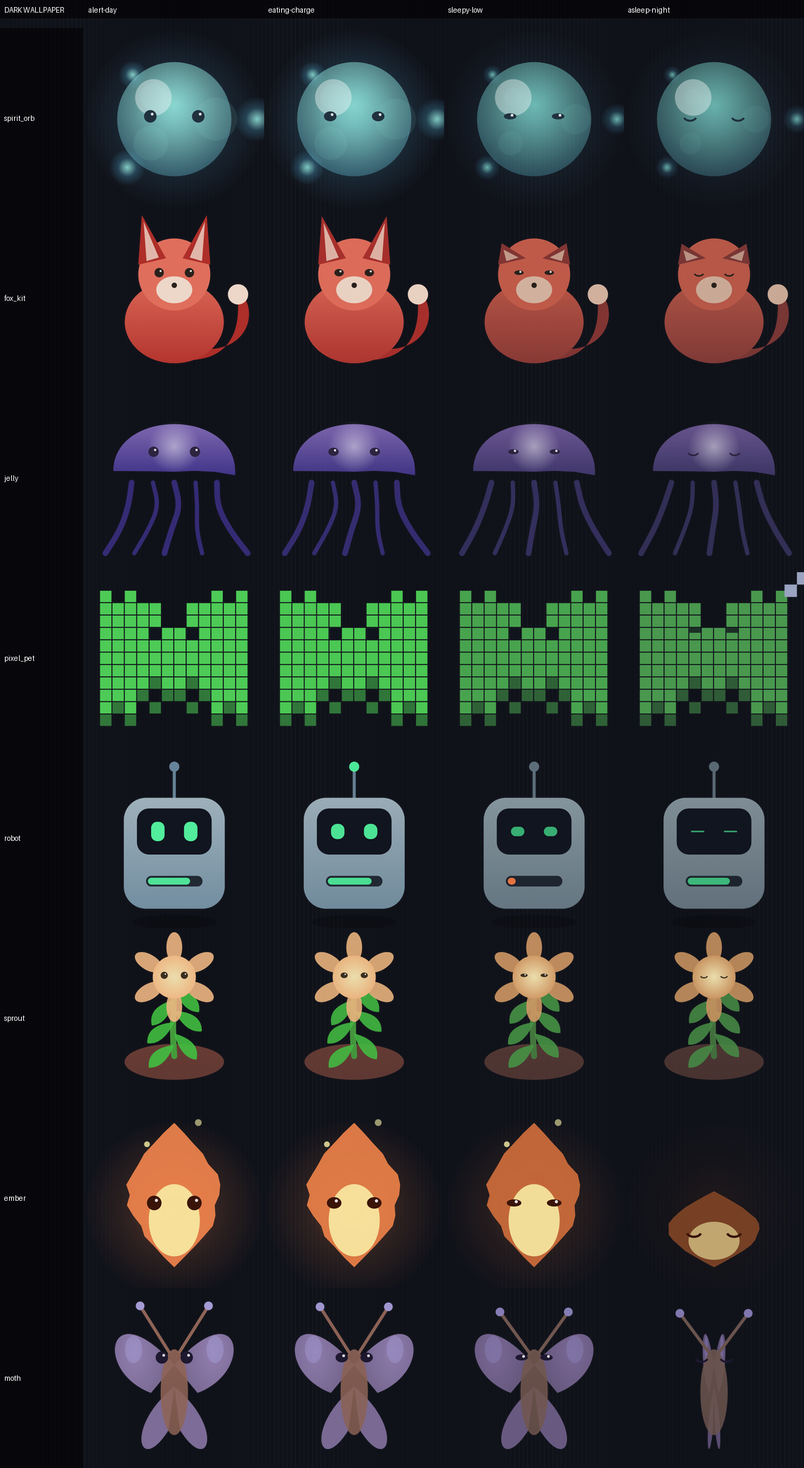
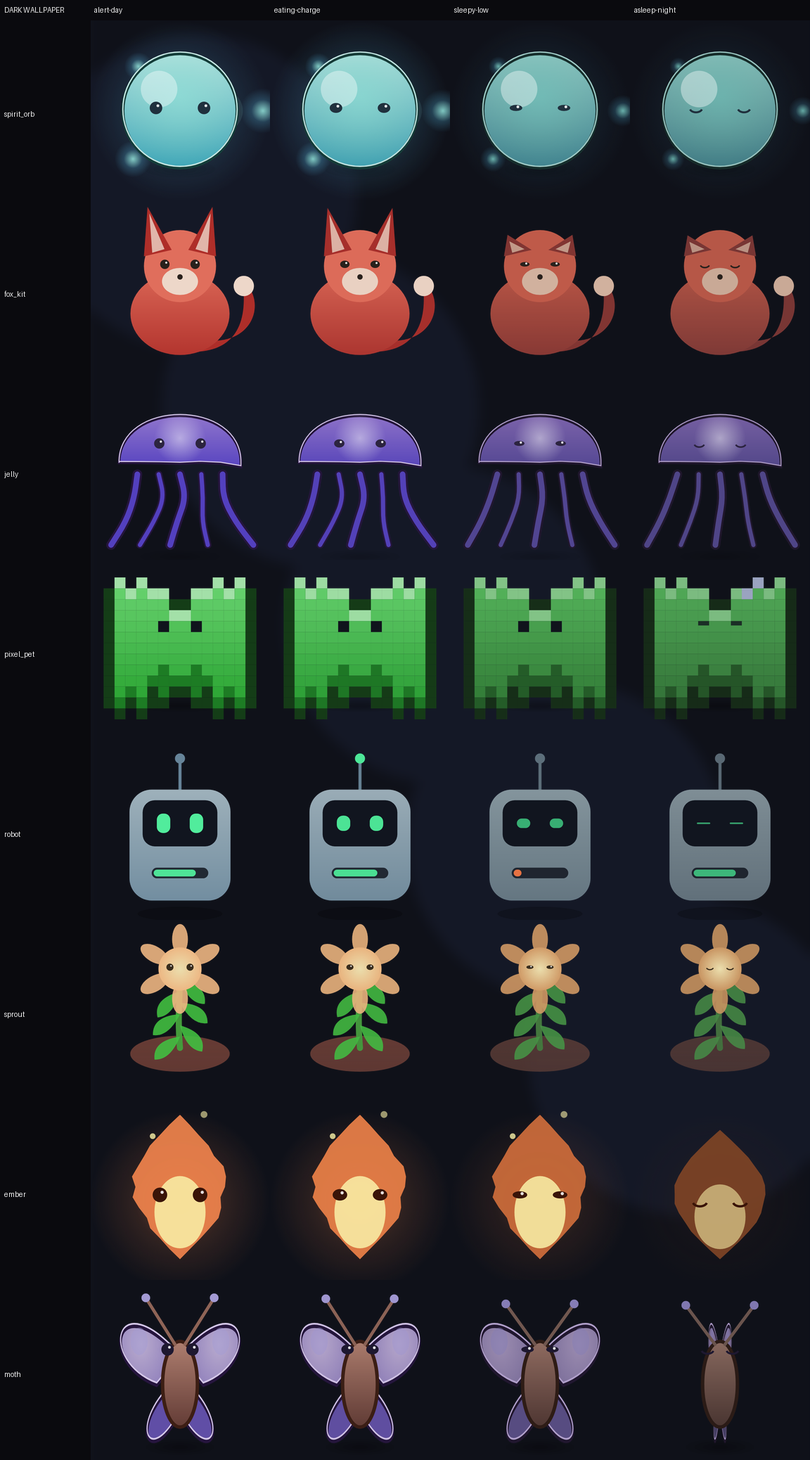
Task 6: reshot on the emulator, and two things that need the owner's answer
Home in six configurations plus the launch sequence, all opened and looked at
before anything here was written. Measured off the pixels rather than eyeballed —
the numbers come from a block scan of the screenshots themselves.

Compact, font 1.0, day, no replies (the worst case the brief named):
  air above the body   274dp, one zone, under the name
  creature ink         1000..1773px
  residual below       138dp
  ink centre           0.593 of screen height, geometric centre 0.500
At font 1.3: 216dp above, 138dp below, centre 0.532 — the asymmetry weakens to
1.6:1 because the nav row wraps to two lines. Said plainly rather than rounded up.

The 138dp below the body is not air, it is the unpainted part of the square: the
ink is 295dp in a 411dp box, i.e. 0.72, because
Evolution.sizeScaleOf(NEWBORN) = 0.82 and this creature is three days old. At
adult scale the ink is 0.818 of the box and the residual falls to ~117dp on its
own. Part of the "void below" is the creature's age, not the layout.

Task 4 revised once more, after looking. The first version put a weighted spacer
above a square box, which was right for a portrait phone and wrong twice over:
in a landscape pane it asked for more height than the pane had, and it left the
expanded branch with the original void on a fold held in portrait — which the
code's own comment calls this product's home turf. Both branches now share one
rule (Arrangement.Bottom + aspectRatio), which collects the air above on a tall
[…]

diff --git a/feature/home/src/main/kotlin/app/anima/feature/home/HomeScreen.kt b/feature/home/src/main/kotlin/app/anima/feature/home/HomeScreen.kt
@@ -413,15 +413,15 @@ internal fun HomeAdaptiveScaffold(
                     .fillMaxHeight(),
             ) {
                 headerRow()
-                // Same reasoning as the compact branch below: the air belongs
-                // above the body, not split around it.
-                Spacer(Modifier.weight(1f))
-                creature(
-                    Modifier
-                        .fillMaxWidth()
-                        .aspectRatio(1f),
+                // The same rule as the compact branch. This pane needs it too:
+                // an unfolded fold held in portrait is ~904dp wide and taller
+                // than that, so the pane is TALL and gets exactly the void the
+                // compact branch is about — and folds are this product's home
+                // turf, so that is not a hypothetical.
+                BodyAndContentBelow(
+                    modifier = Modifier.weight(1f),
+                    creature = creature,
                 )
-                Spacer(Modifier.height(AnimaSpacing.xl))
             }
             Column(
                 Modifier
@@ -436,42 +436,66 @@ internal fun HomeAdaptiveScaffold(
     } else {
         Column(modifier) {
             headerRow()
-
-            // v1.1b task 4. The creature used to be `weight(1f)`, i.e. it took
-            // every pixel the header, cards and nav did not want — and every
-            // renderer sizes its body from `size.minDimension`, so on a portrait
-            // phone the body scaled to WIDTH and all the surplus HEIGHT became
-            // margin. Because a Column centres a child in its own box, that
-            // margin came out as two near-equal quarters with the body exactly in
-            // the middle, which is the thing that reads as no layout at all.
-            //
-            // The fix is not a smaller body and not a capped box: it is putting
-            // the surplus somewhere on purpose. This Spacer takes it, ABOVE the
-            // body, where it becomes the air the name needs to read as an anchor
-            // instead of as a label. The body then sits below the geometric
-            // centre — which is where a standing thing sits, an optical centre
-            // being higher than a geometric one.
-            Spacer(Modifier.weight(1f))
-
-            // `aspectRatio(1f)` is not a cap on the body. The body is width-sized
-            // either way (minDimension), so a square box is exactly the box it
-            // draws in; the old taller box only claimed height it never used.
-            creature(
-                Modifier
-                    .fillMaxWidth()
-                    .aspectRatio(1f),
-            )
-
-            // Content sits against the body now, not in a separate bottom zone.
-            // `xl` between the notices and the way out is the same gap the design
-            // system uses everywhere to mean "new group", four times the spacing
-            // inside either one, so the boundary reads without a rule or a card.
-            Column(verticalArrangement = Arrangement.spacedBy(AnimaSpacing.xl)) {
-                Column { cards() }
-                navRow()
+            BodyAndContentBelow(
+                modifier = Modifier.weight(1f),
+                creature = creature,
+            ) {
+                // Content sits against the body now, not in a separate bottom
+                // zone. `xl` between the notices and the way out is the same gap
+                // the design system uses everywhere to mean "new group", four
+                // times the spacing inside either one, so the boundary reads
+                // without a rule or a card.
+                Column(verticalArrangement = Arrangement.spacedBy(AnimaSpacing.xl)) {
+                    Column { cards() }
+                    navRow()
+                }
+                Spacer(Modifier.height(AnimaSpacing.m))
             }
-            Spacer(Modifier.height(AnimaSpacing.m))
         }
+    }
+}
+
+/**
+ * v1.1b task 4: the body, whatever it has to say, and all the air in one place.
+ *
+ * The creature slot used to be `weight(1f)`, i.e. it took every pixel the header,
+ * cards and nav did not want — and every renderer sizes its body from
+ * `size.minDimension`, so in a box taller than it is wide the body scales to
+ * WIDTH and the surplus HEIGHT becomes margin. A Column centres a child in its
+ * own box, so that margin came out as two near-equal voids with the body exactly
+ * between them, which is the thing that reads as no layout at all.
+ *
+ * So the surplus is not removed — it is put somewhere on purpose.
+ * `Arrangement.Bottom` seats the body and its content against the bottom, which
+ * collects every leftover pixel into one zone directly under the name, where it
+ * is the air a 32sp Light anchor needs instead of a gap. The body then sits below
+ * the geometric centre, which is where a standing thing sits: an optical centre
+ * is higher than a geometric one.
+ *
+ * `aspectRatio(1f)` is not a cap on the body. The body is minDimension-sized
+ * either way, so a square is exactly the box it draws in — the old taller box
+ * only claimed height it never drew in. And when the space really is shorter than
+ * it is wide (a fold in landscape), `aspectRatio` sizes from the height instead,
+ * so the body still fills the pane and nothing is asked for that is not there.
+ * That last part is not theory: the first attempt used a weighted spacer plus a
+ * square, which put the creature in the bottom corner of a landscape pane and
+ * asked for more height than the pane had.
+ *
+ * No `graphicsLayer` anywhere. The body is where the layout puts it.
+ */
+@Composable
+private fun BodyAndContentBelow(
+    modifier: Modifier,
+    creature: @Composable (Modifier) -> Unit,
+    content: @Composable () -> Unit = {},
+) {
+    Column(modifier, verticalArrangement = Arrangement.Bottom) {
+        creature(
+            Modifier
+                .fillMaxWidth()
+                .aspectRatio(1f),
+        )
+        content()
     }
 }
 

diff --git a/docs/design/v11/phase6-v11b-shots.md b/docs/design/v11/phase6-v11b-shots.md
@@ -1,0 +1,220 @@
+# Задача 6 — пересъёмка и моя собственная оценка
+
+Прогон v1.1b, 2026-07-30. Эмулятор `look35` (API 35, google_apis, 1080×2340,
+420 dpi), сборка `app-debug.apk` этого дерева.
+
+Всё ниже я **открыл и посмотрел сам**, до того как это написал. Где не
+получилось — сказано, что не получилось, без оправданий.
+
+Файлы: `docs/design/v11/after-v11b/` (Home и запуск),
+`docs/design/v11/contact/` (контактные листы, перезаписаны).
+
+---
+
+## 1. Home — шесть вариантов
+
+| Файл | Что |
+|---|---|
+| `11-home-dark.png` | тёмная, шрифт 1.0, компактная ширина 411dp, **день, реплик нет** |
+| `12-home-light.png` | светлая, шрифт 1.0 |
+| `13-home-dark-font13.png` | тёмная, шрифт 1.3 |
+| `14-home-light-font13.png` | светлая, шрифт 1.3 |
+| `15-home-expanded-891dp-land.png` | expanded-ветка, 891dp, ландшафт |
+| `16-home-expanded-1080dp-portrait-BAD.png` | expanded-ветка на **высоком** экране — не работает, см. §4 |
+| `09-home-dark-night-asleep-with-notice.png` | ночь, существо спит, одна реплика — случай «с содержимым» |
+
+### Измерено по самим снимкам, не на глаз
+
+Скрипт разбивает кадр на блоки непустых строк (фон — модальный цвет), поэтому
+это границы реального нарисованного, а не мои прикидки.
+
+| Вариант | воздух над телом | краска тела | остаток под телом | центр краски |
+|---|---|---|---|---|
+| тёмная / светлая, шрифт 1.0 | **274dp** | 1000..1773px | 138dp | **0.593** |
+| тёмная / светлая, шрифт 1.3 | **216dp** | 859..1632px | 138dp | **0.532** |
+
+Геометрический центр — 0.500.
+
+**Требования задачи 4 выполнены:**
+- тело **ниже** геометрического центра: 0.593 при шрифте 1.0, 0.532 при 1.3;
+- воздух собран **в одну зону сверху**, прямо под именем: 274dp против 138dp
+  снизу, то есть 2:1, а не «равные четверти»;
+- содержимое подтянуто к телу — в кадре с репликой
+  (`09-...with-notice.png`) фраза и кнопка идут сразу под телом, без отдельной
+  нижней зоны;
+- коробка существа не ограничена по высоте и тело не уменьшено;
+- `graphicsLayer` не применялся нигде.
+
+### Что я вижу и считаю недоделанным
+
+1. **Под телом осталось 138dp, и это не воздух, а незакрашенная часть
+   квадрата.** Разложение: краска тела — 295dp при коробке 411dp, то есть
+   0.72 от коробки. Причина названа кодом, а не мной:
+   `Evolution.sizeScaleOf(LifeStage.NEWBORN) = 0.82`
+   (`core/model/.../Evolution.kt:81`), и существо на снимке живёт 3 дня.
+   У взрослого тела множитель 1.0, краска станет 0.818 от коробки, и остаток
+   снизу сам сократится примерно до 117dp. То есть часть «пустоты снизу» —
+   это возраст существа, а не раскладка. Остальное — вертикальные отступы
+   ряда навигации.
+
+2. **При шрифте 1.3 асимметрия слабее** — 216 против 138, то есть 1.6:1
+   вместо 2:1. Ряд навигации переносится на две строки и забирает 89 + 49dp
+   снизу. Композиция ещё читается как «воздух сверху», но запас меньше, чем
+   при 1.0. Если владельцу нужно 2:1 при любом шрифте, это отдельная правка.
+
+3. Перенос навигации при 1.3 работает как задумано: «Настройки» уходит на
+   вторую строку **целым словом**, побуквенных переносов нет ни в одном из
+   четырёх вариантов.
+
+4. Строка «Оно спит и видит сны о прошедшем дне…» — многоточие **часть
+   строки ресурса** (`home_dream_line`), а не обрезка. `maxLines` в
+   `HomeScreen.kt` нет вообще. Проверено, потому что на снимке это выглядит
+   как усечение.
+
+---
+
+## 2. Первый кадр запуска — главная проверка задачи 1
+
+Три последовательных `screencap` сразу после `am start`.
+
+| Файл | Что на нём |
+|---|---|
+| `07-launch-splash-is-the-spirit-orb.png` | системный splash — **светящийся шар с глазами** |
+| `08-launch-first-home-frame-empty.png` | первый кадр Home — **пусто, только фон** |
+| `11-home-dark.png` | установившийся кадр — лиса |
+
+**Задача 1в подтверждена на устройстве.** Первый кадр Home теперь пустой:
+ни тела, ни имени. Раньше здесь был `SPIRIT_ORB`. Честная оговорка: цена —
+короткий пустой экран вместо короткого неверного. Владелец просил именно это
+(«пустой кадр… что угодно, кроме конкретного чужого тела»), но сказать про
+цену надо.
+
+### 🔴 Найдено при этом и НЕ исправлено — нужно решение владельца
+
+`07-launch-splash-is-the-spirit-orb.png` — это **иконка приложения**, и она
+буквально Дух-огонёк. Комментарий в самом файле:
+
+```
+app/src/main/res/drawable/ic_launcher_foreground.xml:2
+    v0.6: the spirit orb — the first concept a new owner meets.
+```
+
+Следствие: человек, которому назначена лиса, при каждом запуске сначала
+видит на весь экран **другой облик** — раньше кадра Home, дольше, чем длилось
+исправленное мигание. Формально это марка продукта, одна на всех, и никто не
+читает иконку лаунчера как «моё существо». По существу это ровно тот класс,
+который задача 1 закрывает.
+
+Не меняю, потому что решение продуктовое и техническое одновременно:
+adaptive-icon — статический ресурс, вывести его из сида устройства нельзя,
+значит выбор такой: оставить как есть (марка), сделать иконку не-обликом
+(абстрактный знак), или убрать splash-иконку и оставить только фон. Жду ответа.
+
+---
+
+## 3. Контактный лист — 8 × 4 на трёх подложках
+
+Пересобран из свежих кадров `StillRender`:
+`gradlew :core:creature:testDebugUnitTest --tests '*ContactSheetDumpTest*'`
+→ `python3 tools/contact-sheet.py docs/design/v11/contact`.
+
+Композитор теперь **в репозитории** (`tools/contact-sheet.py`) — в прошлом
+прогоне он был ad-hoc и листы можно было смотреть, но не воспроизвести.
+Оговорка: подложки у него свои, поэтому байтового сравнения «до/после» с
+листами прошлого прогона нет; «пёстрая фотография» — генерируемое поле пятен,
+а не фотография, и это сознательно: воспроизводимо и заведомо трудно.
+
+Критерий прежний: **силуэт читается на всех трёх подложках без опоры на фон.**
+
+| Облик | Светлые обои | Тёмные обои | Пёстрая фотография | Итог | Было в v1.1 |
+|---|---|---|---|---|---|
+| `FOX_KIT` | да | да | да | **проходит** | проходил |
+| `ROBOT` | да | да | да | **проходит** | проходил |
+| `SPROUT` | да | да | да | **проходит** | проходил |
+| `EMBER` | да | да | да | **проходит** | проходил, но `asleep` был вдвое мельче |
+| `SPIRIT_ORB` | да | да | **да** | **проходит** | не проходил |
+| `PIXEL_PET` | да | да | **да** | **проходит** | не проходил |
+| `JELLY` | да | да | **да** | **проходит** | был «на грани» |
+| `MOTH` | да | да | да | **проходит, слабейший** | не проходил |
+
+**Восемь из восьми.** Что именно я вижу:
+
+- **`SPIRIT_ORB`** — самое сильное изменение. Непрозрачный шар с собственной
+  светотенью, тёмное кольцо контура, мягкая тень под ним. На пёстром фото
+  сквозь него больше ничего не видно. *Честная оговорка о характере:* тёмное
+  кольцо очень графичное — шар теперь читается скорее как обведённый шарик,
+  чем как сгусток света. Это цена контура, который задание требовало;
+  рычаг — `Grounding.CONTOUR_LIGHT` (сейчас 0.16).
+- **`PIXEL_PET`** — читается как спрайт, а не как сетка поверх фото. Клетки
+  сплошные, силуэт обведён на одну клетку, внутренние дырки закрашены тёмным
+  и работают как внутренняя тень. Обаяние пиксель-арта, по-моему, сохранилось:
+  обводка по силуэту — канон жанра, и она не по клеткам и не по bounding box.
+- **`JELLY`** — щупальца перестали исчезать. Купол не менял непрозрачности,
+  ему добавлен только контур.
+- **`MOTH`** — работает, но это самый слабый облик из восьми, и я не буду это
+  сглаживать. Крылья непрозрачны и читаются, но светло-лавандовое крыло на
+  тёмно-коричневом теле читается как **бабочка-наклейка**, а не как мотылёк, и
+  светлый рим — самое громкое в кадре. Отдельно: `asleep-night` — сложенные
+  крылья, и остаётся коричневая капсула с усиками; как «мотылёк со сложенными
+  крыльями» это читается только если знать заранее, иначе это семечко.
+  Критерий читаемости он проходит, критерий узнаваемости — нет.
+- **`EMBER`** `asleep` — исправлен по существу: раньше маленький тёмный ромб
+  («фигура в капюшоне»), теперь тот же силуэт пламени, ниже и глуше.
+  *Оговорка:* на светлой подложке цвет спящего угля (L = 0.40) читается
+  мутно-оливковым. На тёмной, где это состояние и живёт, — нормально.
+
+**Что НЕ сделано в задаче 2:** переработки силуэтов по существу. `MOTH`
+остаётся бабочкой по форме, `SPROUT` — ромашкой, `EMBER` — воздушным змеем
+(эта форма была и до прогона, у бодрствующего тоже). Задание требовало
+заземления, а не редизайна, и я границу не переходил. Если `MOTH` не устроит —
+это уже вопрос состава набора, и сейчас он ещё бесплатный.
+
+---
+
+## 4. 🔴 Expanded-ветка на высоком экране — не работает
+
+`16-home-expanded-1080dp-portrait-BAD.png`.
+
+Двухпанельное разделение включается **только по ширине**
+(`HomeScreen.kt`, `screenWidthDp >= 840`). На экране, который шире 840dp **и
+при этом выше, чем шире**, получается две высокие узкие колонки: тело — в
+левой нижней части, ряд навигации — по центру правой, между ними ничего.
+Читается как поломка.
+
+Это не гипотетический экран: **развёрнутый Fold в портрете** — примерно
+904 × 1114dp, то есть выше, чем шире, и порог срабатывает. Комментарий в
+самом файле называет фолды «домашней территорией продукта».
+
+Дефект **не мой** — до прогона тело в этой же панели просто висело по центру
+той же высокой колонки, то есть пустота была та же. Мой `Arrangement.Bottom`
+переставил её сверху, но не вылечил разделение панелей.
+
+Правильный порог — «широкий **и** не выше, чем шире», а не только ширина.
+Не меняю: сколько панелей у развёрнутого фолда в портрете — решение
+продуктовое, а не техническое. Жду ответа.
+
+Ландшафт при 891dp (`15-...land.png`) работает: тело заполняет левую панель
+по высоте, навигация — по центру правой. Оговорка: правая панель почти
+пустая, а тело почти касается заголовка. Оба — из существующего дизайна
+expanded, Фаза 4 его и так трогает.
+
+---
+
+## 5. Прогон, которым это подтверждается
+
+```
+find . -path "*/build/test-results" -type d -exec rm -rf {} +
+./gradlew check -Proborazzi.test.verify=true --no-build-cache
+→ BUILD SUCCESSFUL
+```
+
+- **443** выполнения тестов, отказов 0, ошибок 0, пропусков 7 (все — env-gated
+  `tools/litertlm-smoke`). На старте прогона было 419.
+- Голдены сравнивались, а не просто снимались:
+  `core/creature/build/test-results/roborazzi/debug/results-summary.json`
+  → `{"total":32,"recorded":0,"added":0,"changed":0,"unchanged":32}`.
+- `NetworkIsolationTest` — 14 в каждом варианте, отказов 0. Инвариант сети
+  не тронут.
+- Перезаписано голденов за прогон: 16 rig (заземление + `EMBER asleep`),
+  8 rest (`RestContentGoldenTest` пинит `SPIRIT_ORB`), 2 home (раскладка).
+  Все открыты и просмотрены.
